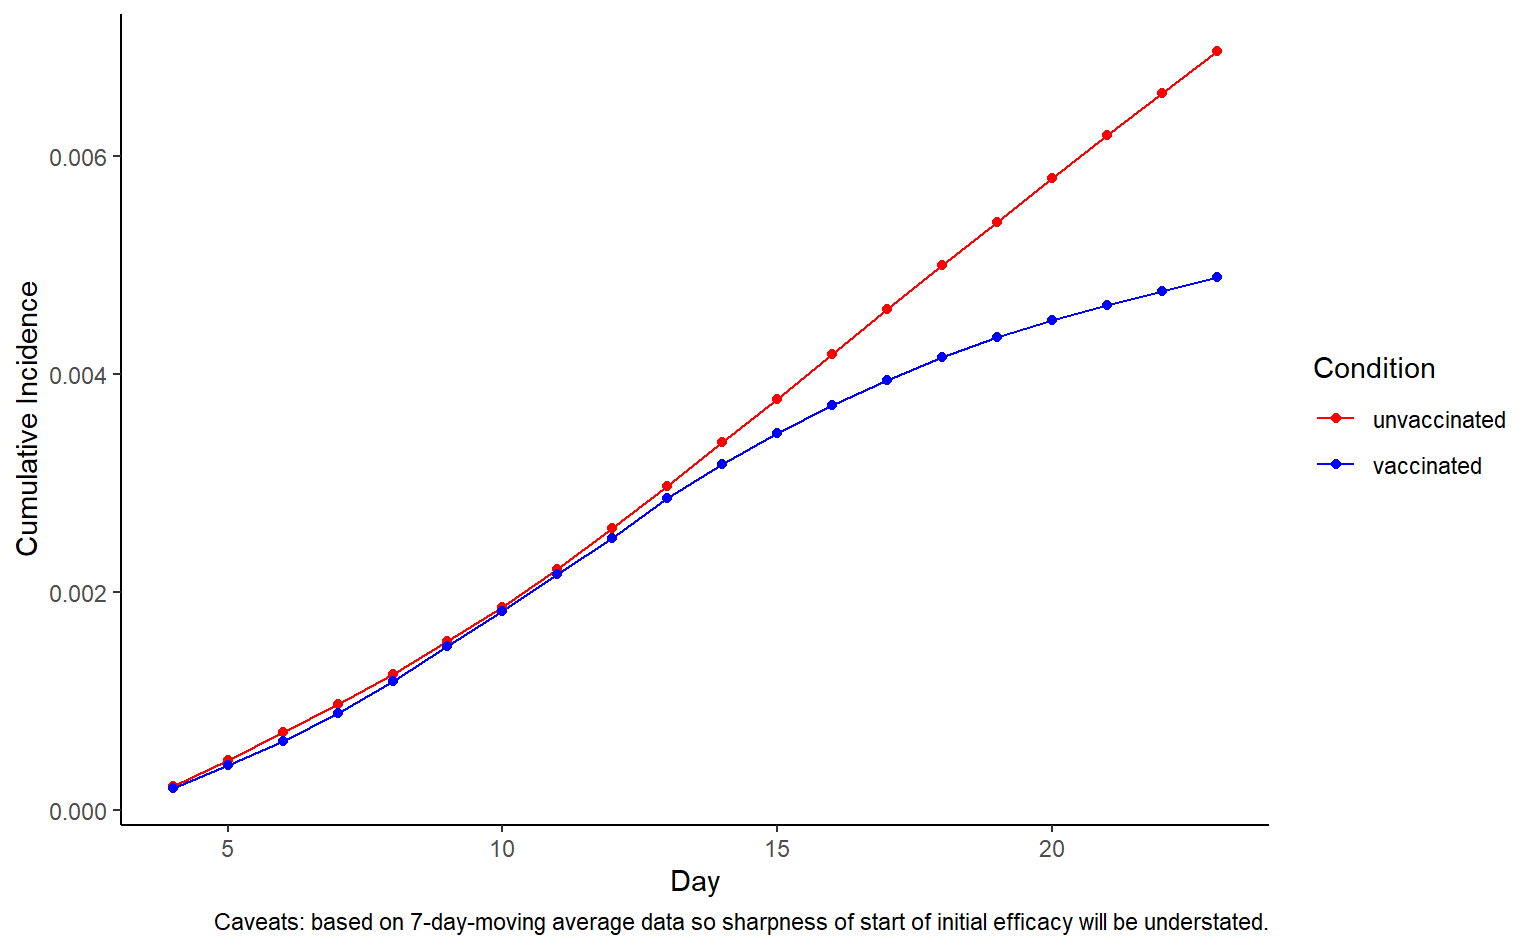
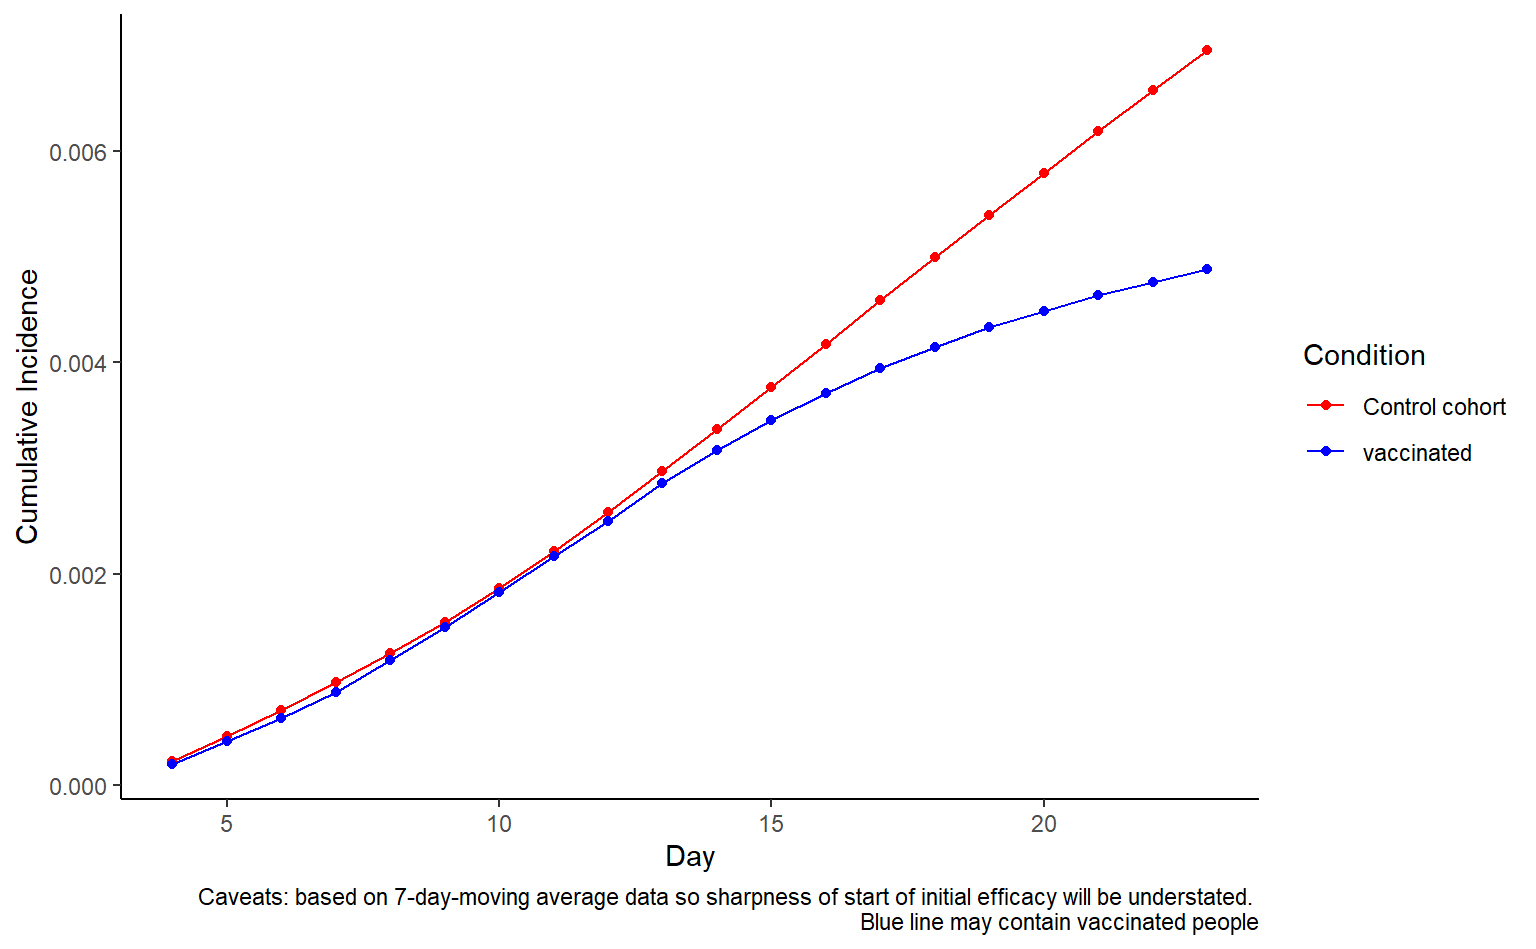
updates

diff --git a/content/post/2021-01-022-maccabi/index.md b/content/post/2021-01-022-maccabi/index.md
@@ -12,7 +12,7 @@ draft: false
 projects: []
 mininote: true
 output:  hugodown::md_document  
-rmd_hash: 1e9f944663e4caa2
+rmd_hash: be6848b83b16c7b9
 
 ---
 
@@ -36,14 +36,16 @@ As Eran Segal [pointed out on Twitter](https://twitter.com/segal_eran/status/135
 
 <span class='nv'>graphdata</span> <span class='o'>=</span> <span class='nv'>data</span> <span class='o'>%&gt;%</span> <span class='nf'>select</span><span class='o'>(</span><span class='nf'><a href='https://rdrr.io/r/base/c.html'>c</a></span><span class='o'>(</span><span class='nv'>Day</span>,<span class='nf'>contains</span><span class='o'>(</span><span class='s'>"daily_incidence"</span><span class='o'>)</span><span class='o'>)</span><span class='o'>)</span> <span class='o'>%&gt;%</span> <span class='nf'>pivot_longer</span><span class='o'>(</span><span class='o'>-</span><span class='nv'>Day</span>,names_to<span class='o'>=</span><span class='s'>"group"</span>,values_to<span class='o'>=</span><span class='s'>"daily_incidence"</span><span class='o'>)</span> <span class='o'>%&gt;%</span> <span class='nf'>separate</span><span class='o'>(</span><span class='nv'>group</span>,into<span class='o'>=</span><span class='nf'><a href='https://rdrr.io/r/base/c.html'>c</a></span><span class='o'>(</span><span class='s'>"bla"</span>,<span class='s'>"bla2"</span>,<span class='s'>"condition"</span><span class='o'>)</span>,sep<span class='o'>=</span><span class='s'>"_"</span><span class='o'>)</span> <span class='o'>%&gt;%</span> <span class='nf'>select</span><span class='o'>(</span><span class='o'>-</span><span class='nf'>contains</span><span class='o'>(</span><span class='s'>"bla"</span><span class='o'>)</span><span class='o'>)</span> <span class='o'>%&gt;%</span> <span class='nf'>group_by</span><span class='o'>(</span><span class='nv'>condition</span><span class='o'>)</span> <span class='o'>%&gt;%</span> <span class='nf'>arrange</span><span class='o'>(</span><span class='nv'>Day</span><span class='o'>)</span> <span class='o'>%&gt;%</span> <span class='nf'>mutate</span><span class='o'>(</span>cumulative_incidence<span class='o'>=</span><span class='nf'><a href='https://rdrr.io/r/base/cumsum.html'>cumsum</a></span><span class='o'>(</span><span class='nv'>daily_incidence</span><span class='o'>)</span><span class='o'>)</span>
 
-<span class='nf'>ggplot</span><span class='o'>(</span><span class='nv'>graphdata</span>,<span class='nf'>aes</span><span class='o'>(</span>x<span class='o'>=</span><span class='nv'>Day</span>,y<span class='o'>=</span><span class='nv'>cumulative_incidence</span>,color<span class='o'>=</span><span class='nv'>condition</span><span class='o'>)</span><span class='o'>)</span><span class='o'>+</span><span class='nf'>geom_line</span><span class='o'>(</span><span class='o'>)</span><span class='o'>+</span><span class='nf'>theme_classic</span><span class='o'>(</span><span class='o'>)</span><span class='o'>+</span><span class='nf'>labs</span><span class='o'>(</span>caption<span class='o'>=</span><span class='s'>"Caveats: based on 7-day-moving average data so sharpness of start of initial efficacy will be understated."</span>,color<span class='o'>=</span><span class='s'>"Condition"</span>,y<span class='o'>=</span><span class='s'>"Cumulative Incidence"</span><span class='o'>)</span><span class='o'>+</span><span class='nf'>scale_color_manual</span><span class='o'>(</span>values<span class='o'>=</span><span class='nf'><a href='https://rdrr.io/r/base/c.html'>c</a></span><span class='o'>(</span><span class='s'>"red"</span>,<span class='s'>"blue"</span><span class='o'>)</span><span class='o'>)</span><span class='o'>+</span><span class='nf'>geom_point</span><span class='o'>(</span><span class='o'>)</span>
+
+<span class='nv'>graphdata</span><span class='o'>$</span><span class='nv'>condition</span> <span class='o'>=</span> <span class='nf'><a href='https://rdrr.io/r/base/ifelse.html'>ifelse</a></span><span class='o'>(</span><span class='nv'>graphdata</span><span class='o'>$</span><span class='nv'>condition</span><span class='o'>==</span><span class='s'>"unvaccinated"</span>,<span class='s'>"Control cohort"</span>,<span class='nv'>graphdata</span><span class='o'>$</span><span class='nv'>condition</span><span class='o'>)</span>
+<span class='nf'>ggplot</span><span class='o'>(</span><span class='nv'>graphdata</span>,<span class='nf'>aes</span><span class='o'>(</span>x<span class='o'>=</span><span class='nv'>Day</span>,y<span class='o'>=</span><span class='nv'>cumulative_incidence</span>,color<span class='o'>=</span><span class='nv'>condition</span><span class='o'>)</span><span class='o'>)</span><span class='o'>+</span><span class='nf'>geom_line</span><span class='o'>(</span><span class='o'>)</span><span class='o'>+</span><span class='nf'>theme_classic</span><span class='o'>(</span><span class='o'>)</span><span class='o'>+</span><span class='nf'>labs</span><span class='o'>(</span>caption<span class='o'>=</span><span class='s'>"Caveats: based on 7-day-moving average data so sharpness of start of initial efficacy will be understated. \n Blue line may contain vaccinated people"</span>,color<span class='o'>=</span><span class='s'>"Condition"</span>,y<span class='o'>=</span><span class='s'>"Cumulative Incidence"</span><span class='o'>)</span><span class='o'>+</span><span class='nf'>scale_color_manual</span><span class='o'>(</span>values<span class='o'>=</span><span class='nf'><a href='https://rdrr.io/r/base/c.html'>c</a></span><span class='o'>(</span><span class='s'>"red"</span>,<span class='s'>"blue"</span><span class='o'>)</span><span class='o'>)</span><span class='o'>+</span><span class='nf'>geom_point</span><span class='o'>(</span><span class='o'>)</span>
 
 </code></pre>
 <img src="figs/unnamed-chunk-2-1.png" width="700px" style="display: block; margin: auto;" />
 
 </div>
 
-There are a lot of caveats about whether this is comparing like-for-like in terms of endpoint. In some respects it is definitely not, and everything is smoothed out by the 7 day moving average. In addition, this is a much older age group where we'd very much expect the immune response to take longer.
+There are a lot of caveats about whether this is comparing like-for-like in terms of endpoint. In some respects it is definitely not, and everything is smoothed out by the 7 day moving average. In addition, this is a much older age group where we'd very much expect the immune response to take longer. Another really important [caveat](https://twitter.com/gbpolitics/status/1352764070668201985) is that the blue line likely includes people who were vaccinated later on.
 
 In general the top plot presented by Maccabi is much more useful for getting a sense of what is going on (what direction the lines are pointing at the end of the Kaplain-Meier plot).
 
